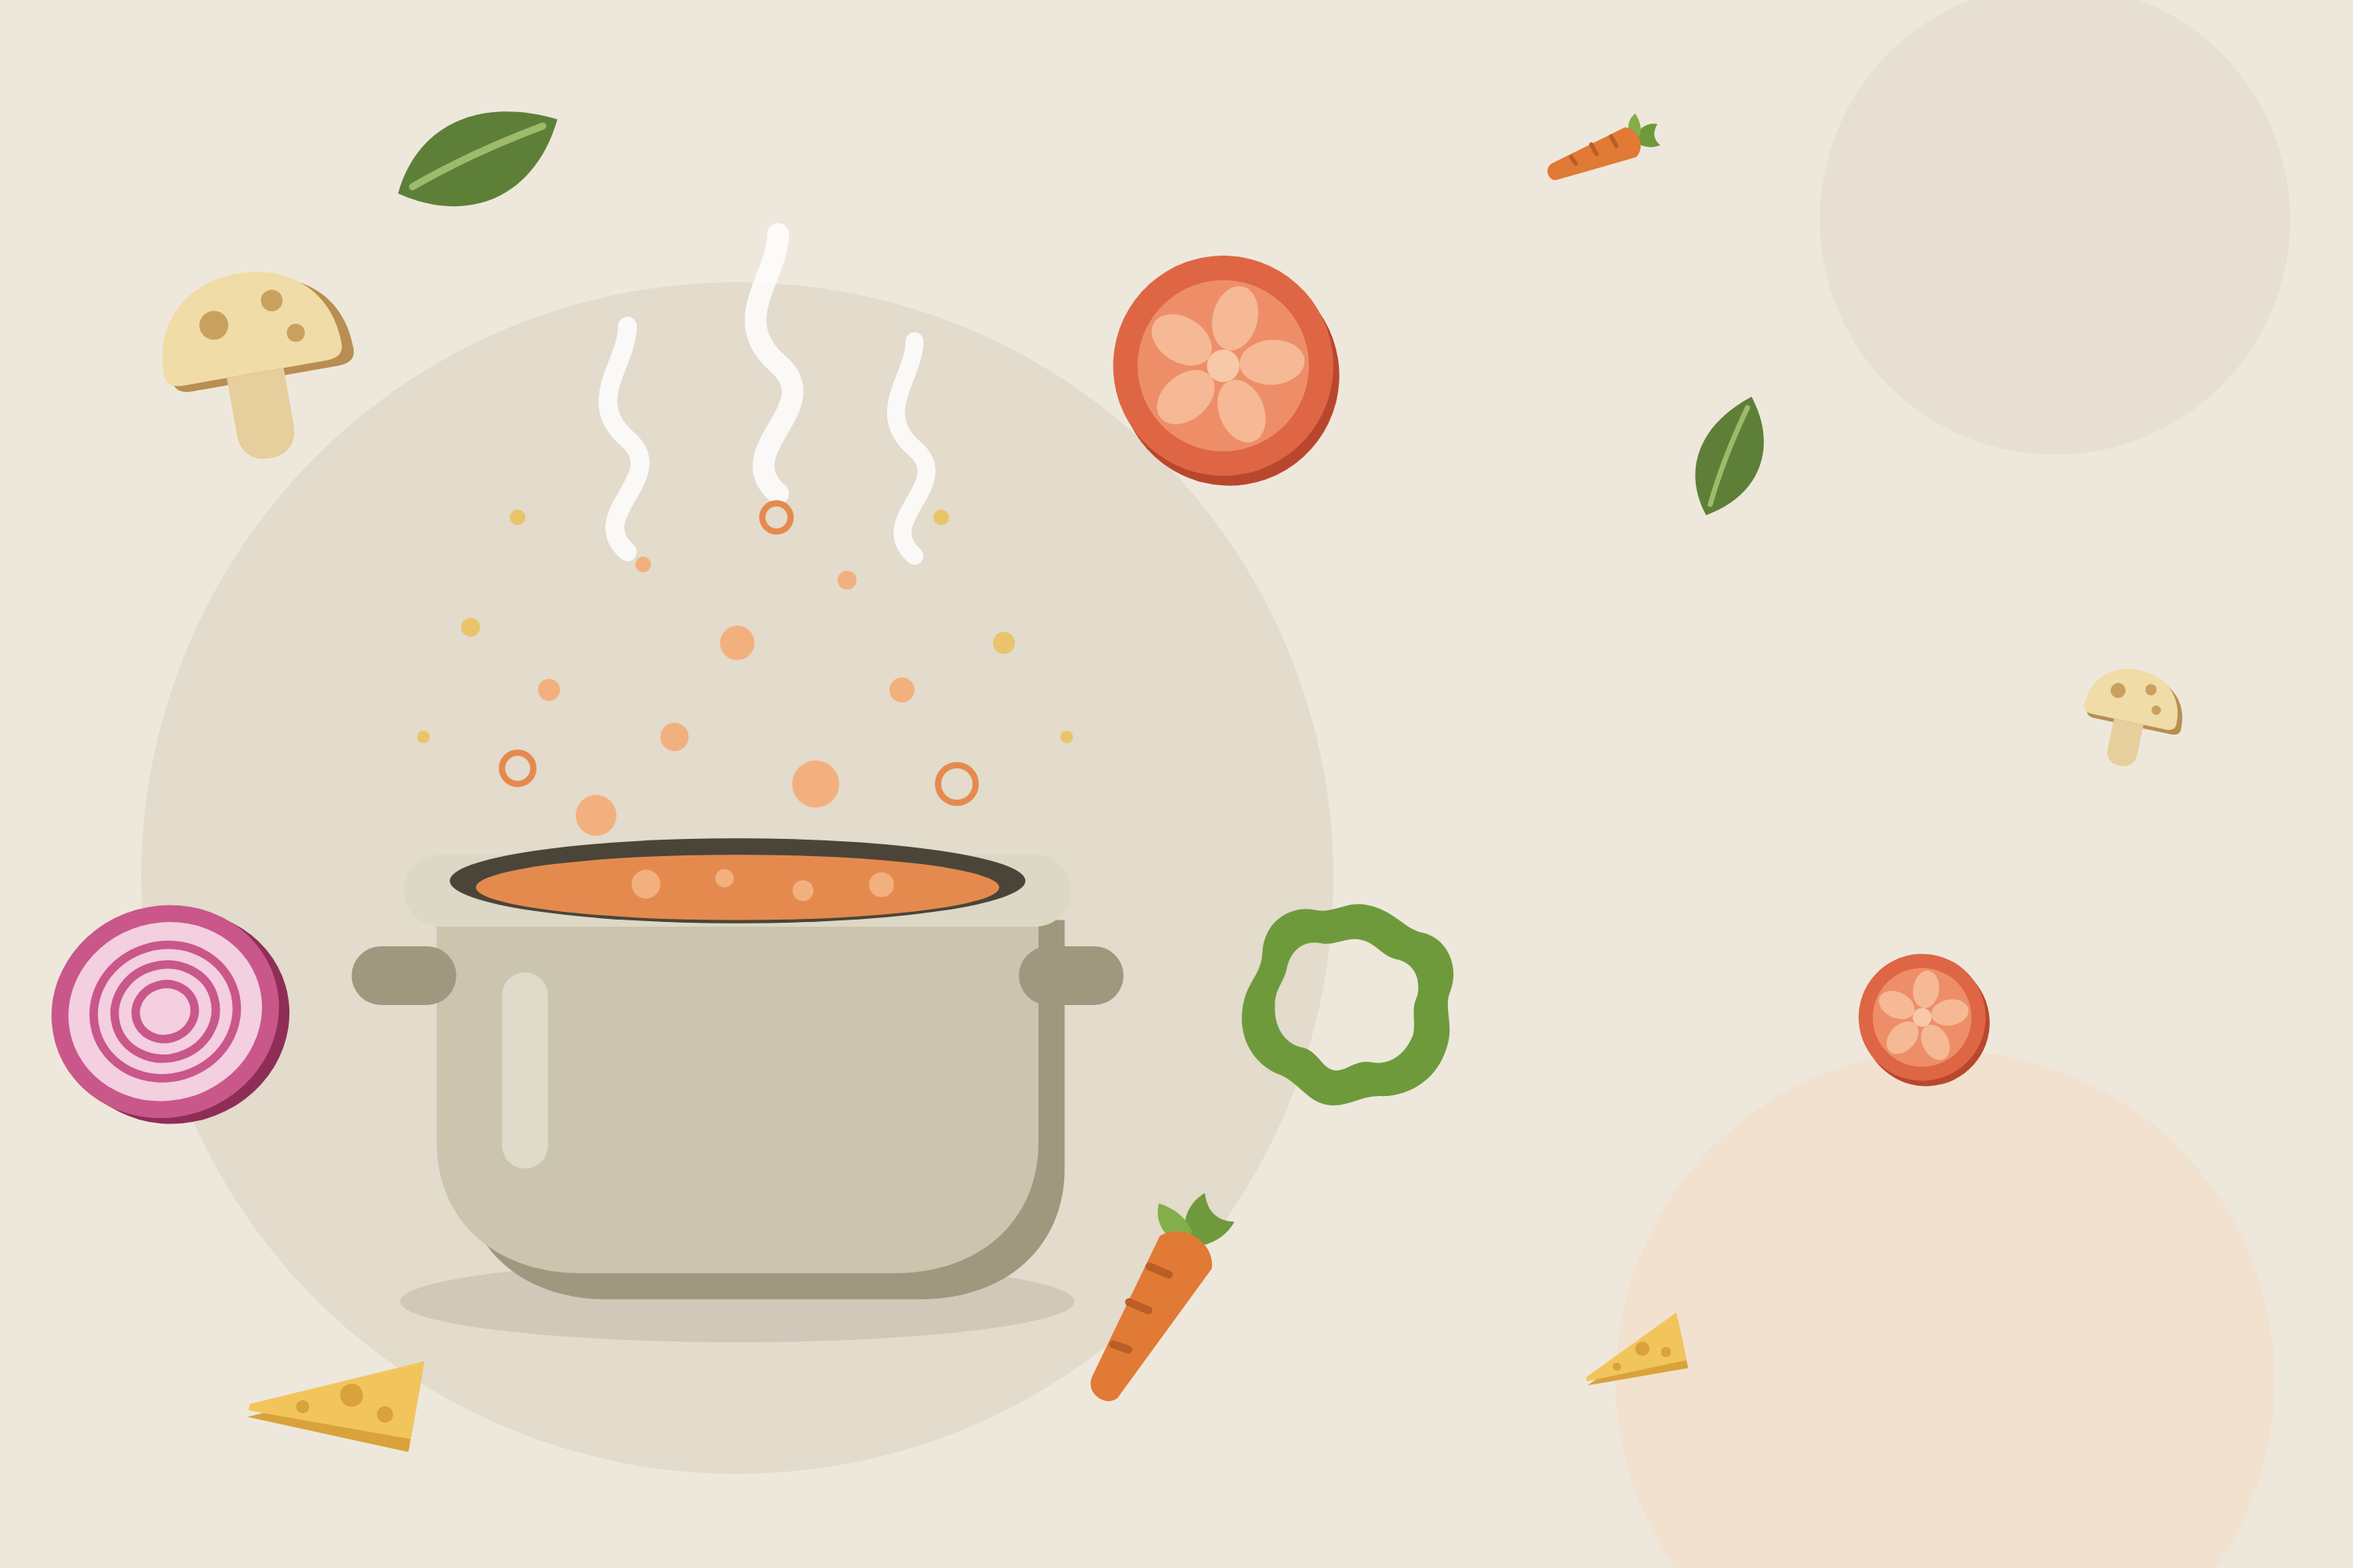
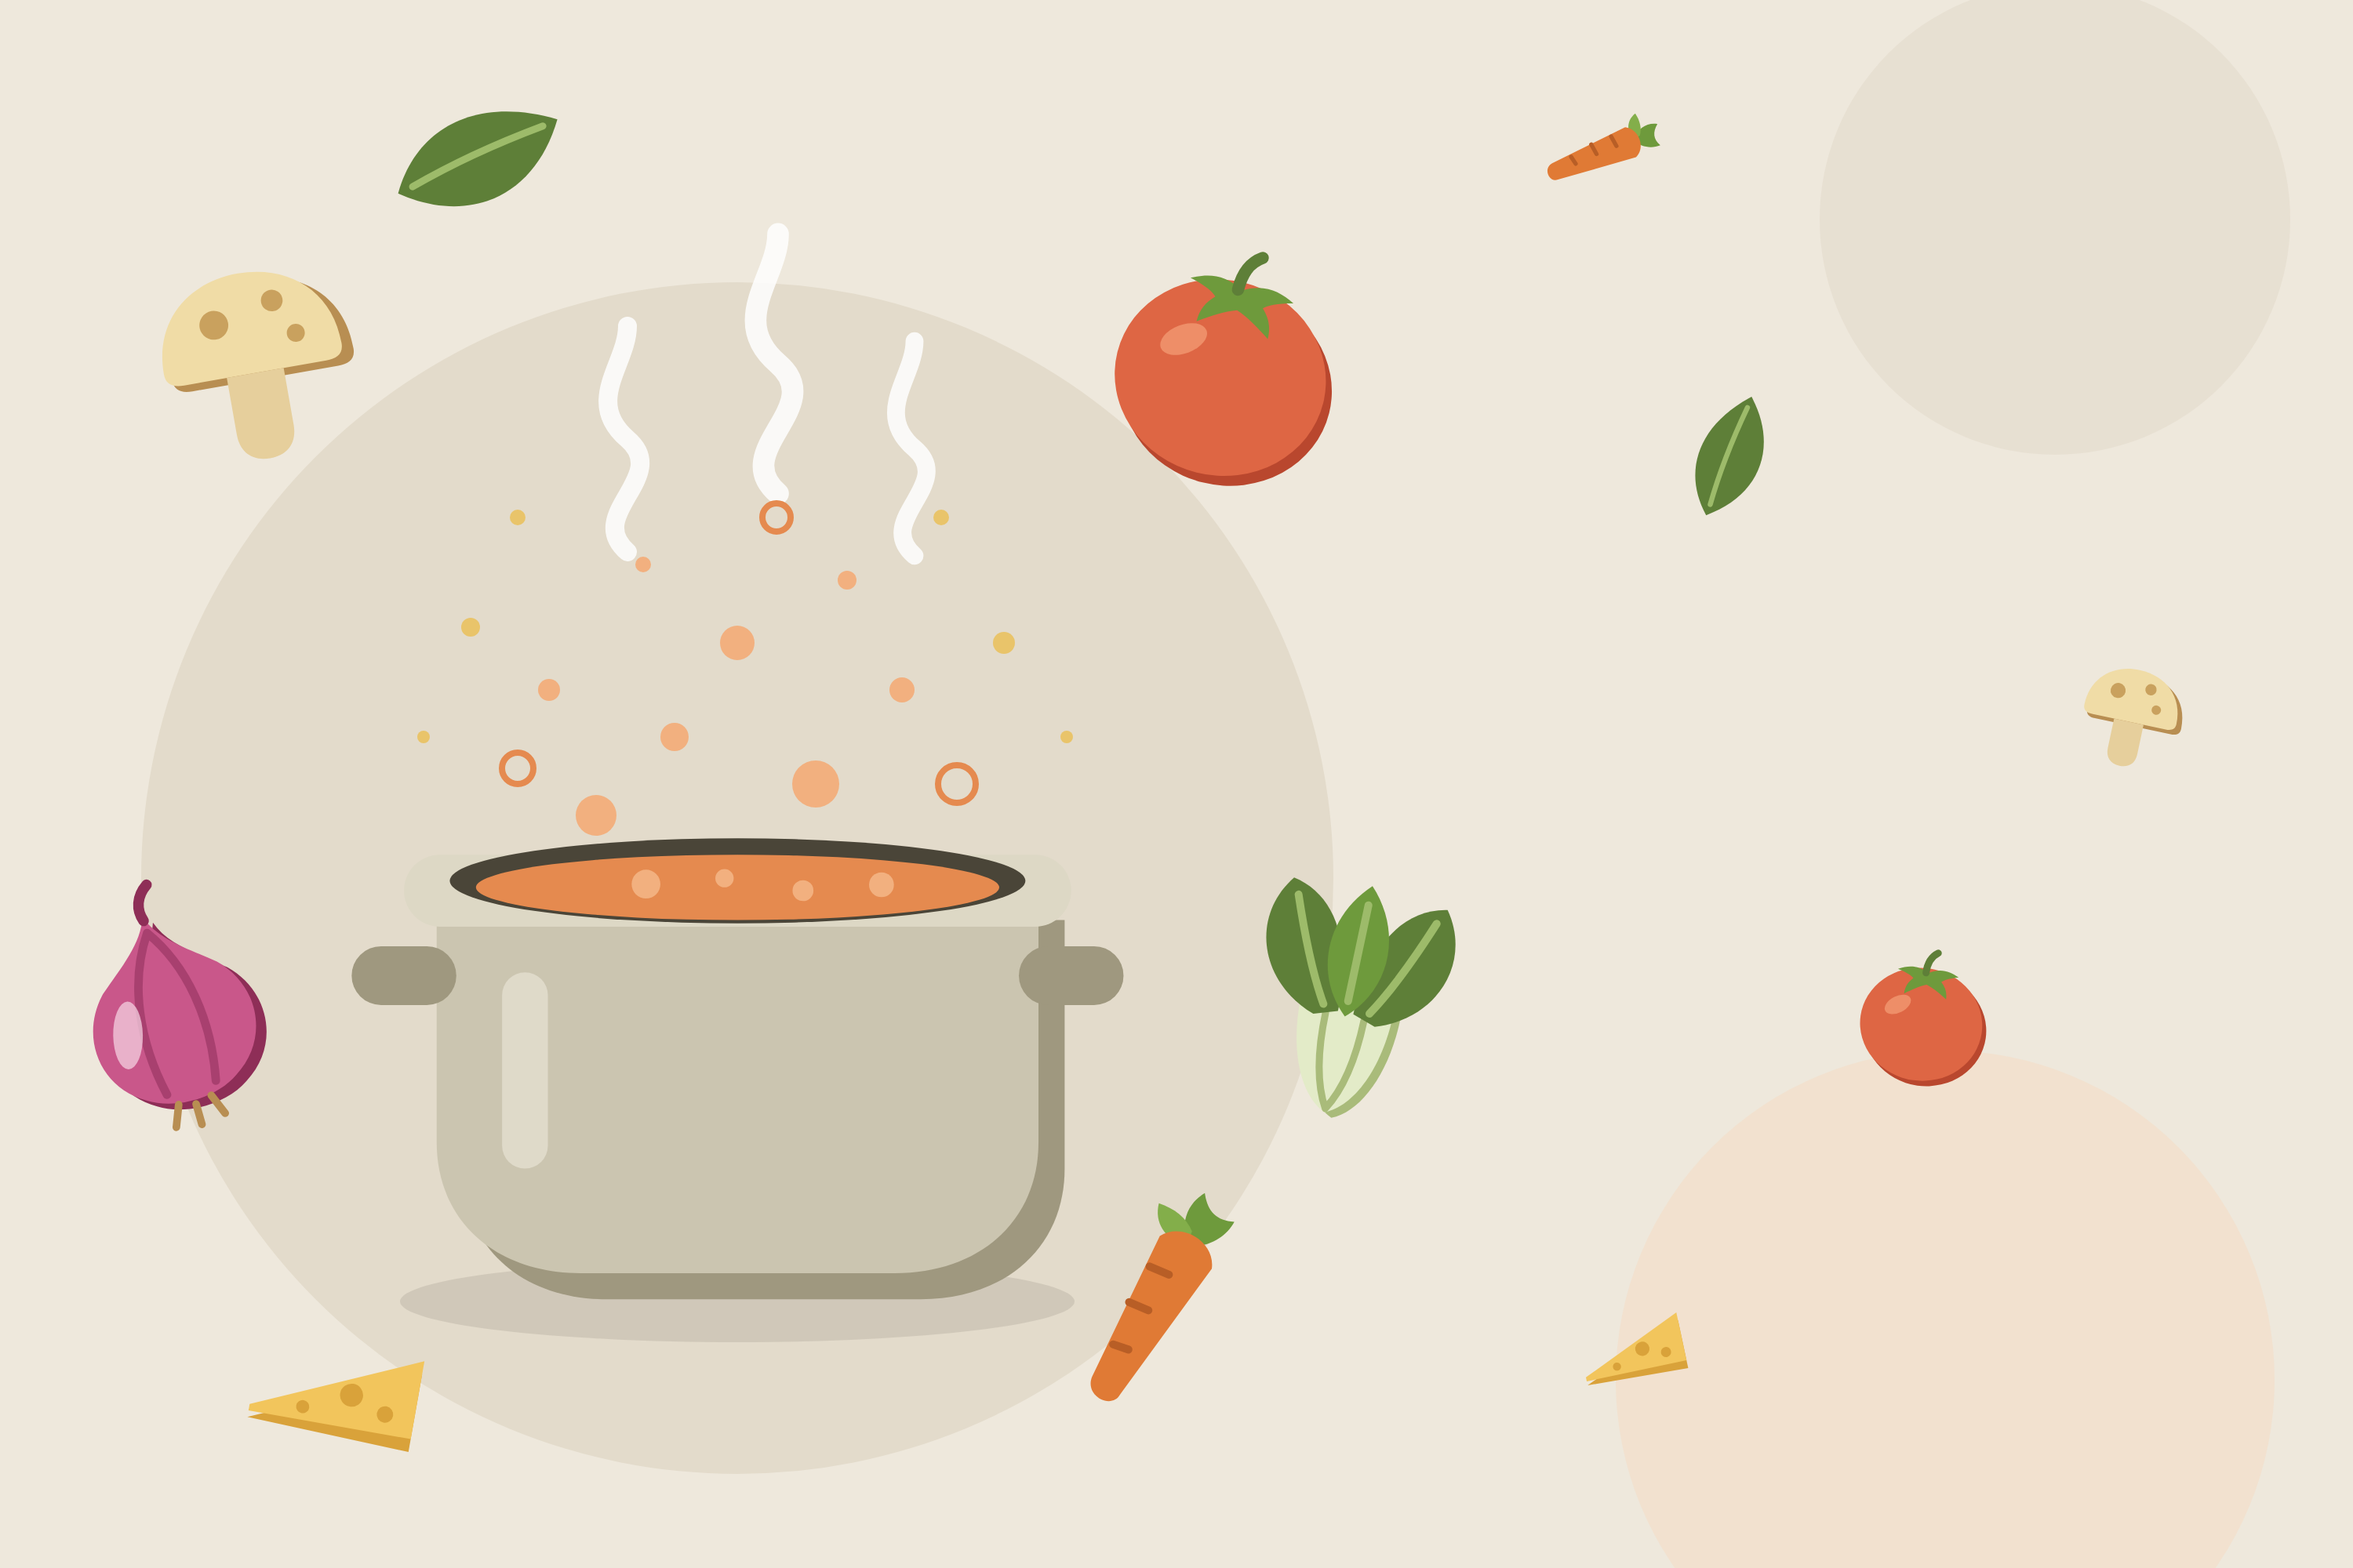
Swap veggie art: whole tomato, whole onion, bok choy (app + hero)

diff --git a/docs/devpost/hero.html b/docs/devpost/hero.html
@@ -5,13 +5,10 @@
 <!-- Devpost hero (3:2). Same clipart as src/components/Veggies.tsx. Render: see docs/devpost/README.md -->
 <svg viewBox="0 0 1500 1000" xmlns="http://www.w3.org/2000/svg">
   <defs>
-    <g id="tomato"><circle cx="33" cy="34" r="27" fill="#B9472E"/><circle cx="31" cy="32" r="27" fill="#DE6644"/><circle cx="31" cy="32" r="21" fill="#EE8E68"/>
-      <ellipse cx="31" cy="20" rx="5.5" ry="8" fill="#F5B996"/><ellipse cx="31" cy="20" rx="5.5" ry="8" fill="#F5B996" transform="rotate(72 31 32)"/><ellipse cx="31" cy="20" rx="5.5" ry="8" fill="#F5B996" transform="rotate(144 31 32)"/><ellipse cx="31" cy="20" rx="5.5" ry="8" fill="#F5B996" transform="rotate(216 31 32)"/><ellipse cx="31" cy="20" rx="5.5" ry="8" fill="#F5B996" transform="rotate(288 31 32)"/>
-      <circle cx="31" cy="32" r="4" fill="#F7C9A8"/></g>
+    <g id="tomato"><ellipse cx="33" cy="37" rx="26" ry="24" fill="#B9472E"/><ellipse cx="31" cy="35" rx="26" ry="24" fill="#DE6644"/><ellipse cx="20" cy="28" rx="6" ry="3.5" fill="#EE8E68" transform="rotate(-35 20 28)"/><path d="M31 13C26 10 22 11 18 13c4 1 6 2 7 3-2 2-3 4-3 7 3-2 6-4 9-5 3 1 6 3 9 5 0-3-1-5-3-7 1-1 3-2 7-3-4-2-8-3-13 0z" fill="#6E9A3C"/><path d="M30 13c0-4 1-7 4-9" stroke="#5E7F38" stroke-width="3" stroke-linecap="round" fill="none"/></g>
     <g id="mushroom"><path d="M8 32C8 16 19 8 33 8s26 8 26 24c0 3-2 4-5 4H13c-3 0-5-1-5-4z" fill="#B88E52"/><path d="M6 30C6 15 17 6 31 6s25 9 25 24c0 3-2 4-5 4H11c-3 0-5-1-5-4z" fill="#F0DCA6"/><path d="M23 34h16v16c0 5-3 8-8 8s-8-3-8-8z" fill="#E6CF9C"/><circle cx="22" cy="19" r="4" fill="#C9A15E"/><circle cx="39" cy="15" r="3" fill="#C9A15E"/><circle cx="44" cy="25" r="2.5" fill="#C9A15E"/></g>
-    <g id="onion"><ellipse cx="33" cy="34" rx="27" ry="25" fill="#8E2E57"/><ellipse cx="31" cy="32" rx="27" ry="25" fill="#C9578A"/><ellipse cx="31" cy="32" rx="23" ry="21" fill="#F3CFDF"/>
-      <ellipse cx="31" cy="32" rx="17" ry="15.64" fill="none" stroke="#C9578A" stroke-width="2"/><ellipse cx="31" cy="32" rx="12" ry="11.04" fill="none" stroke="#C9578A" stroke-width="2"/><ellipse cx="31" cy="32" rx="7" ry="6.44" fill="none" stroke="#C9578A" stroke-width="2"/></g>
-    <g id="pepper"><path fill-rule="evenodd" fill="#6E9A3C" d="M32 6c7 0 10 4 15 4 6 0 11 6 10 13-1 5 3 8 2 15-1 9-8 14-14 15-5 1-8 5-13 5S24 54 19 53c-7-1-13-7-13-16 0-6 3-8 2-14C7 15 13 10 19 10c5 0 7-4 13-4zm0 9c-4 0-6 3-10 3-4 0-7 3-7 8 0 4-2 6-1 10 1 6 5 9 9 9 4 0 6 4 9 4s5-4 9-4 8-3 9-9c0-4-2-6-1-10 0-5-3-8-7-8-4 0-6-3-10-3z"/></g>
+    <g id="onion"><path d="M32 9c2 6 8 10 14 15 8 8 7 21-3 27-6 4-16 4-22 0C11 45 10 32 18 24c6-5 12-9 14-15z" fill="#8E2E57" transform="translate(2 2)"/><path d="M32 9c2 6 8 10 14 15 8 8 7 21-3 27-6 4-16 4-22 0C11 45 10 32 18 24c6-5 12-9 14-15z" fill="#C9578A"/><path d="M32 13c-7 10-9 24-6 38M32 13c7 10 9 24 6 38" stroke="#A8406F" stroke-width="2" stroke-linecap="round" fill="none"/><ellipse cx="21" cy="35" rx="3.5" ry="8" fill="#F3CFDF" opacity="0.75" transform="rotate(15 21 35)"/><path d="M32 10c-1-3 0-6 3-8" stroke="#8E2E57" stroke-width="2.5" stroke-linecap="round" fill="none"/><path d="M28 54l-2 5M32 55v5M36 54l2 5" stroke="#B88E52" stroke-width="1.8" stroke-linecap="round"/></g>
+    <g id="bokchoy"><path d="M20 32c0 14 5 25 12 28 7-3 12-14 12-28z" fill="#A9BB7A" transform="translate(2 1)"/><path d="M20 32c0 14 5 25 12 28 7-3 12-14 12-28z" fill="#E3EBC8"/><path d="M27 35c0 11 2 19 5 24M37 35c0 11-2 19-5 24" stroke="#A9BB7A" stroke-width="1.8" stroke-linecap="round" fill="none"/><path d="M24 36C9 31 3 15 12 3c11 2 18 13 18 31z" fill="#5E7F38"/><path d="M40 36c15-5 21-21 12-33-11 2-18 13-18 31z" fill="#5E7F38"/><path d="M32 35c-10-9-10-24 0-34 10 10 10 25 0 34z" fill="#6E9A3C"/><path d="M32 31V6M26 33c-5-8-9-18-12-26M38 33c5-8 9-18 12-26" stroke="#9DBB6A" stroke-width="2" stroke-linecap="round" fill="none"/></g>
     <g id="carrot"><path d="M44 17c-1-7 2-12 7-14 0 5 2 8 7 9-3 4-8 6-14 5z" fill="#6E9A3C"/><path d="M44 17c-6-3-8-8-6-13 4 2 7 5 8 9z" fill="#83AE4A"/><path d="M37 13c7-3 15 4 13 11L20 55c-3 4-10-1-7-6z" fill="#E07A35"/><path d="M38 24l-5-3M31 33l-5-3M24 43l-4-2" stroke="#B85E26" stroke-width="2.2" stroke-linecap="round"/></g>
     <g id="basil"><path d="M10 54C8 30 24 12 54 10 56 38 38 56 10 54z" fill="#5E7F38"/><path d="M14 50C24 38 36 26 50 14" stroke="#9DBB6A" stroke-width="2.5" stroke-linecap="round" fill="none"/></g>
     <g id="cheese"><path d="M6 44l50-22v24z" fill="#D9A23A"/><path d="M6 40l50-22v24H6z" fill="#F2C55C"/><circle cx="36" cy="32" r="3.5" fill="#D9A23A"/><circle cx="47" cy="36" r="2.5" fill="#D9A23A"/><rect x="20" y="36" width="4" height="4" rx="2" fill="#D9A23A"/></g>
@@ -68,7 +65,7 @@
   <use href="#mushroom" transform="translate(90 160) rotate(-10 70 70) scale(2.3)"/>
   <use href="#basil"    transform="translate(250 40) rotate(20 50 50) scale(1.8)"/>
   <use href="#onion"    transform="translate(20 560) rotate(-16 80 80) scale(2.7)"/>
-  <use href="#pepper"   transform="translate(780 560) rotate(12 75 75) scale(2.5)"/>
+  <use href="#bokchoy"   transform="translate(780 560) rotate(12 75 75) scale(2.5)"/>
   <use href="#carrot"   transform="translate(660 760) rotate(-8 70 70) scale(2.3)"/>
   <use href="#cheese"   transform="translate(150 820) rotate(10 60 60) scale(2.1)"/>
   <!-- a few smaller ones drifting out to the right -->

diff --git a/src/components/Veggies.tsx b/src/components/Veggies.tsx
@@ -14,15 +14,14 @@ import { C, F } from '@/lib/theme';
 
 // ---------- Art ----------
 
+// Whole tomato: round body, a soft shine and a green star-shaped top with a little stem.
 const Tomato = () => (
   <Svg viewBox="0 0 64 64">
-    <Circle cx={33} cy={34} r={27} fill="#B9472E" />
-    <Circle cx={31} cy={32} r={27} fill="#DE6644" />
-    <Circle cx={31} cy={32} r={21} fill="#EE8E68" />
-    {[0, 72, 144, 216, 288].map((a) => (
-      <Ellipse key={a} cx={31} cy={20} rx={5.5} ry={8} fill="#F5B996" transform={`rotate(${a} 31 32)`} />
-    ))}
-    <Circle cx={31} cy={32} r={4} fill="#F7C9A8" />
+    <Ellipse cx={33} cy={37} rx={26} ry={24} fill="#B9472E" />
+    <Ellipse cx={31} cy={35} rx={26} ry={24} fill="#DE6644" />
+    <Ellipse cx={20} cy={28} rx={6} ry={3.5} fill="#EE8E68" transform="rotate(-35 20 28)" />
+    <Path d="M31 13C26 10 22 11 18 13c4 1 6 2 7 3-2 2-3 4-3 7 3-2 6-4 9-5 3 1 6 3 9 5 0-3-1-5-3-7 1-1 3-2 7-3-4-2-8-3-13 0z" fill="#6E9A3C" />
+    <Path d="M30 13c0-4 1-7 4-9" stroke="#5E7F38" strokeWidth={3} strokeLinecap="round" fill="none" />
   </Svg>
 );
 
@@ -37,24 +36,30 @@ const Mushroom = () => (
   </Svg>
 );
 
+// Whole red onion: a bulb with a pointed top, skin lines and little roots.
+const ONION_BULB = 'M32 9c2 6 8 10 14 15 8 8 7 21-3 27-6 4-16 4-22 0C11 45 10 32 18 24c6-5 12-9 14-15z';
 const Onion = () => (
   <Svg viewBox="0 0 64 64">
-    <Ellipse cx={33} cy={34} rx={27} ry={25} fill="#8E2E57" />
-    <Ellipse cx={31} cy={32} rx={27} ry={25} fill="#C9578A" />
-    <Ellipse cx={31} cy={32} rx={23} ry={21} fill="#F3CFDF" />
-    {[17, 12, 7].map((r) => (
-      <Ellipse key={r} cx={31} cy={32} rx={r} ry={r * 0.92} fill="none" stroke="#C9578A" strokeWidth={2} />
-    ))}
+    <Path d={ONION_BULB} fill="#8E2E57" transform="translate(2 2)" />
+    <Path d={ONION_BULB} fill="#C9578A" />
+    <Path d="M32 13c-7 10-9 24-6 38M32 13c7 10 9 24 6 38" stroke="#A8406F" strokeWidth={2} strokeLinecap="round" fill="none" />
+    <Ellipse cx={21} cy={35} rx={3.5} ry={8} fill="#F3CFDF" opacity={0.75} transform="rotate(15 21 35)" />
+    <Path d="M32 10c-1-3 0-6 3-8" stroke="#8E2E57" strokeWidth={2.5} strokeLinecap="round" fill="none" />
+    <Path d="M28 54l-2 5M32 55v5M36 54l2 5" stroke="#B88E52" strokeWidth={1.8} strokeLinecap="round" />
   </Svg>
 );
 
-const Pepper = () => (
+// Bok choy: pale stalks gathered at the base, three dark leaves fanning out on top.
+const BOK_STALK = 'M20 32c0 14 5 25 12 28 7-3 12-14 12-28z';
+const BokChoy = () => (
   <Svg viewBox="0 0 64 64">
-    <Path
-      fillRule="evenodd"
-      d="M32 6c7 0 10 4 15 4 6 0 11 6 10 13-1 5 3 8 2 15-1 9-8 14-14 15-5 1-8 5-13 5S24 54 19 53c-7-1-13-7-13-16 0-6 3-8 2-14C7 15 13 10 19 10c5 0 7-4 13-4zm0 9c-4 0-6 3-10 3-4 0-7 3-7 8 0 4-2 6-1 10 1 6 5 9 9 9 4 0 6 4 9 4s5-4 9-4 8-3 9-9c0-4-2-6-1-10 0-5-3-8-7-8-4 0-6-3-10-3z"
-      fill="#6E9A3C"
-    />
+    <Path d={BOK_STALK} fill="#A9BB7A" transform="translate(2 1)" />
+    <Path d={BOK_STALK} fill="#E3EBC8" />
+    <Path d="M27 35c0 11 2 19 5 24M37 35c0 11-2 19-5 24" stroke="#A9BB7A" strokeWidth={1.8} strokeLinecap="round" fill="none" />
+    <Path d="M24 36C9 31 3 15 12 3c11 2 18 13 18 31z" fill="#5E7F38" />
+    <Path d="M40 36c15-5 21-21 12-33-11 2-18 13-18 31z" fill="#5E7F38" />
+    <Path d="M32 35c-10-9-10-24 0-34 10 10 10 25 0 34z" fill="#6E9A3C" />
+    <Path d="M32 31V6M26 33c-5-8-9-18-12-26M38 33c5-8 9-18 12-26" stroke="#9DBB6A" strokeWidth={2} strokeLinecap="round" fill="none" />
   </Svg>
 );
 
@@ -111,7 +116,7 @@ const SPOTS: Spot[] = [
   { V: Mushroom, size: 50, top: '20%', left: '6%', tilt: -10, dur: 3100 },
   { V: Basil, size: 38, top: '14%', left: '42%', tilt: 20, dur: 2800 },
   { V: Onion, size: 62, top: '66%', left: '-4%', tilt: -16, dur: 3300 },
-  { V: Pepper, size: 54, top: '74%', right: '6%', tilt: 12, dur: 2900 },
+  { V: BokChoy, size: 54, top: '74%', right: '6%', tilt: 12, dur: 2900 },
   { V: Carrot, size: 46, top: '82%', left: '24%', tilt: -8, dur: 3200 },
   { V: Cheese, size: 42, top: '88%', right: '14%', tilt: 10, dur: 3500 },
 ];

diff --git a/src/components/KitchenScene.tsx b/src/components/KitchenScene.tsx
@@ -53,10 +53,12 @@ export function KitchenScene() {
         <Rect x={40} y={182} width={70} height={30} rx={4} fill="#3F4830" />
         <Rect x={130} y={182} width={70} height={30} rx={4} fill="#3F4830" />
 
-        {/* cutting board with a tomato */}
+        {/* cutting board with two whole tomatoes */}
         <Rect x={118} y={147} width={74} height={13} rx={6} fill="#D98C55" />
         <Path d="M146 147a12 12 0 0 1 24 0z" fill="#DE6644" />
-        <Path d="M176 147a8 8 0 0 1 16 0z" fill="#EE8E68" />
+        <Path d="M154 135.5h8M158 135.5v-3" stroke="#6E9A3C" strokeWidth={2.2} strokeLinecap="round" />
+        <Path d="M176 147a8 8 0 0 1 16 0z" fill="#DE6644" />
+        <Path d="M181 139.5h6M184 139.5v-2.5" stroke="#6E9A3C" strokeWidth={2} strokeLinecap="round" />
 
         {/* pot with steam */}
         <Rect x={238} y={118} width={64} height={42} rx={8} fill="#C9C1A8" />

diff --git a/HANDOFF.md b/HANDOFF.md
@@ -76,6 +76,7 @@ App (`.env`): `EXPO_PUBLIC_SUPABASE_URL`, `EXPO_PUBLIC_SUPABASE_ANON_KEY`. Supab
 
 Newest first. Format: `date time — who — what changed (and anything the other Claude must know)`.
 
+- Oct 17 — Rick's Claude — **Veggie art swapped** (old set was too close to the DubHacks site): tomato slice -> whole tomato, onion slice -> whole red onion, bell pepper -> bok choy, same flat style. Changed in `Veggies.tsx` (Home floaters + pot drop animation use the same art), `KitchenScene.tsx` (board tomatoes now whole) and the Devpost hero (`docs/devpost/hero.png` re-rendered). Don't bring back sliced tomato/onion or bell pepper.
 - Oct 17 — Rick's Claude — Logo PNGs for Devpost from `docs/devpost/logo.html` (same paths as Logo.tsx): `logo.png` (beige), `logo-transparent.png` (real cutouts), `logo-wordmark.png` (logo + "Frankly" in Fraunces Bold, olive #4B5538).
 - Oct 17 — Rick's Claude — Devpost hero graphic: `docs/devpost/hero.html` (same clipart as Veggies.tsx) rendered to `docs/devpost/hero.png` (3000x2000) with headless Edge (`msedge --headless=new --force-device-scale-factor=2 --window-size=1500,1000 --screenshot=...`). Not app code.
 - Oct 17 — Rick's Claude — Small UI fixes: chopping knife now faces the carrot; `Sheet`/`Popup` (ui.tsx) put the tap-to-close backdrop *behind* the content so the ingredient price sheet scrolls on phones; custom SVG air fryer icon (the icon set only had a fan); "Building your / Frankly…" now on two lines with side padding.
